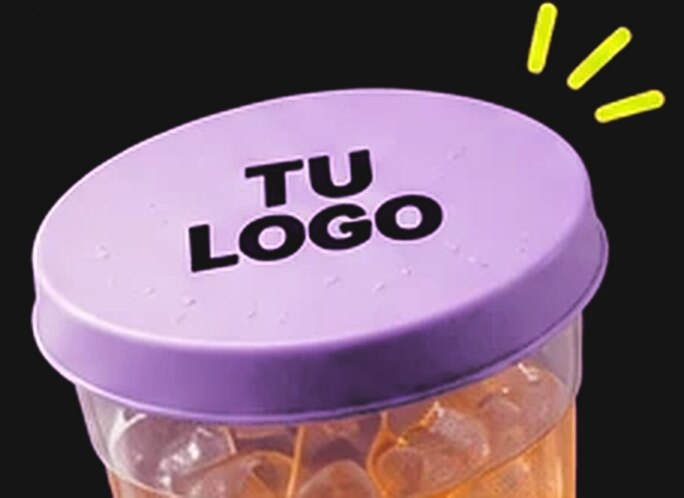
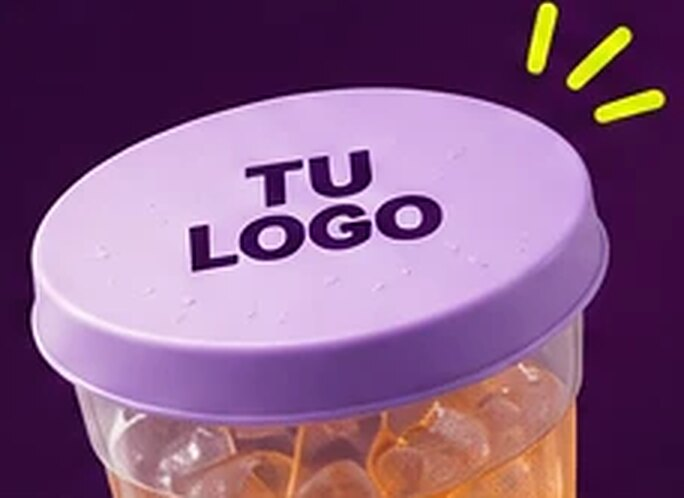
Volver al morado oscuro como color principal de la web; negro solo como acento
- Se recupera el morado en cabecera, portada, franja Custom, textos y fotos.
- Negro #141414 solo en el pie de página y en la selección de color/pack y
  miniatura activa de la ficha de producto.
- Negro y morado profundo siguen en la paleta oficial y en los tokens CSS.

Claude-Session: https://claude.ai/code/session_01AGLgpCqdxRS2ErA33SG59r

diff --git a/web/src/styles/global.css b/web/src/styles/global.css
@@ -5,23 +5,23 @@
 
 :root {
   --color-purple: #1A0B3D;
+  /* Paleta ampliada: el negro se usa solo como acento puntual */
   --color-black: #141414;
-  --color-ink: #141414; /* color oscuro principal de la web */
   --color-deep-purple: #3A1256;
-  --color-night: #141414;
+  --color-night: #1D0830;
   --hero-grad: radial-gradient(120% 140% at 80% 30%, #3B0C48 0%, #2A0838 45%, #190627 100%);
   --color-lime: #D9FF00;
   --color-pink: #FF2EA6;
   --color-lavender: #B6A4FF;
   --color-cream: #F5F4EE;
-  --color-text: var(--color-ink);
+  --color-text: #1A0B3D;
   --color-surface: #F5F4EE;
 
   /* derivados */
   --color-paper: #FBFAF6;
   --color-sand: #EAE8DF;
-  --color-line: rgba(20, 20, 20, 0.14);
-  --color-muted: rgba(20, 20, 20, 0.68);
+  --color-line: rgba(26, 11, 61, 0.14);
+  --color-muted: rgba(26, 11, 61, 0.68);
   --color-on-dark-muted: rgba(245, 244, 238, 0.72);
   --color-error: #B3124F;
 
@@ -74,7 +74,7 @@ h1, h2, h3, h4 { line-height: 1.05; font-weight: 800; letter-spacing: -0.03em; t
 ul[role='list'], ol[role='list'] { list-style: none; padding: 0; }
 
 :focus-visible {
-  outline: 3px solid var(--color-ink);
+  outline: 3px solid var(--color-purple);
   outline-offset: 3px;
   box-shadow: 0 0 0 6px var(--color-lime);
   border-radius: 4px;
@@ -91,7 +91,7 @@ ul[role='list'], ol[role='list'] { list-style: none; padding: 0; }
 }
 .skip-link {
   position: absolute; left: 1rem; top: -100px; z-index: 100;
-  background: var(--color-lime); color: var(--color-ink); padding: 0.75rem 1rem;
+  background: var(--color-lime); color: var(--color-purple); padding: 0.75rem 1rem;
   border-radius: var(--radius-s); font-weight: 600; text-decoration: none;
 }
 .skip-link:focus { top: 1rem; }
@@ -103,7 +103,7 @@ ul[role='list'], ol[role='list'] { list-style: none; padding: 0; }
 .rule { border: 0; border-top: 1px solid var(--color-line); }
 
 .dark {
-  background: var(--color-ink);
+  background: var(--color-purple);
   color: var(--color-cream);
 }
 .paper { background: var(--color-paper); }
@@ -115,7 +115,7 @@ ul[role='list'], ol[role='list'] { list-style: none; padding: 0; }
 }
 .eyebrow::before {
   content: ''; width: 0.55rem; height: 0.55rem; border-radius: 50%; background: var(--color-lime);
-  box-shadow: 0 0 0 1.5px var(--color-ink);
+  box-shadow: 0 0 0 1.5px var(--color-purple);
 }
 .dark .eyebrow::before { box-shadow: none; }
 .h-hero { font-size: var(--step-hero); letter-spacing: -0.045em; line-height: 0.95; }
@@ -147,14 +147,14 @@ ul[role='list'], ol[role='list'] { list-style: none; padding: 0; }
 .btn svg { width: 1.1em; height: 1.1em; transition: transform 0.2s var(--ease); }
 .btn:hover svg.arrow { transform: translateX(3px); }
 .btn:active { transform: translateY(1px); }
-.btn-primary { background: var(--color-lime); color: var(--color-ink); border-color: var(--color-lime); }
+.btn-primary { background: var(--color-lime); color: var(--color-purple); border-color: var(--color-lime); }
 .btn-primary:hover { background: #E6FF4D; border-color: #E6FF4D; }
 .dark .btn-primary { border-color: var(--color-lime); }
-.btn-secondary { background: transparent; color: var(--color-ink); border-color: var(--color-ink); }
-.btn-secondary:hover { background: var(--color-ink); color: var(--color-cream); }
+.btn-secondary { background: transparent; color: var(--color-purple); border-color: var(--color-purple); }
+.btn-secondary:hover { background: var(--color-purple); color: var(--color-cream); }
 .dark .btn-secondary { color: var(--color-cream); border-color: rgba(245, 244, 238, 0.7); }
-.dark .btn-secondary:hover { background: var(--color-cream); color: var(--color-ink); border-color: var(--color-cream); }
-.btn-dark { background: var(--color-ink); color: var(--color-cream); }
+.dark .btn-secondary:hover { background: var(--color-cream); color: var(--color-purple); border-color: var(--color-cream); }
+.btn-dark { background: var(--color-purple); color: var(--color-cream); }
 .btn-dark:hover { background: #2B1A5C; }
 .btn[disabled], .btn[aria-disabled='true'] { opacity: 0.45; cursor: not-allowed; transform: none; }
 .btn-block { width: 100%; }
@@ -171,8 +171,8 @@ ul[role='list'], ol[role='list'] { list-style: none; padding: 0; }
   display: inline-flex; align-items: center; gap: 0.35rem;
   font-size: 0.75rem; font-weight: 600; letter-spacing: 0.02em; line-height: 1;
   padding: 0.3rem 0.5rem; border-radius: 6px;
-  background: rgba(20, 20, 20, 0.07); color: var(--color-ink);
-  border: 1px dashed rgba(20, 20, 20, 0.35); vertical-align: middle; white-space: nowrap;
+  background: rgba(26, 11, 61, 0.07); color: var(--color-purple);
+  border: 1px dashed rgba(26, 11, 61, 0.35); vertical-align: middle; white-space: nowrap;
 }
 .dark .pending { background: rgba(245, 244, 238, 0.08); color: var(--color-cream); border-color: rgba(245, 244, 238, 0.4); }
 
@@ -182,11 +182,11 @@ ul[role='list'], ol[role='list'] { list-style: none; padding: 0; }
 .field .opt { font-weight: 400; color: var(--color-muted); }
 .input {
   width: 100%; min-height: 3.25rem; padding: 0.8rem 1rem;
-  background: var(--color-paper); border: 1.5px solid rgba(20, 20, 20, 0.28); border-radius: var(--radius-s);
+  background: var(--color-paper); border: 1.5px solid rgba(26, 11, 61, 0.28); border-radius: var(--radius-s);
   transition: border-color 0.15s;
 }
-.input:hover { border-color: rgba(20, 20, 20, 0.55); }
-.input:focus-visible { border-color: var(--color-ink); }
+.input:hover { border-color: rgba(26, 11, 61, 0.55); }
+.input:focus-visible { border-color: var(--color-purple); }
 textarea.input { min-height: 9rem; resize: vertical; }
 .input[aria-invalid='true'] { border-color: var(--color-error); }
 .field-error { color: var(--color-error); font-size: var(--step--1); font-weight: 500; }
@@ -205,7 +205,7 @@ textarea.input { min-height: 9rem; resize: vertical; }
   flex: none; width: 2rem; height: 2rem; border-radius: 50%; border: 1.5px solid currentColor;
   display: grid; place-items: center; transition: transform 0.25s var(--ease), background-color 0.2s;
 }
-.faq details[open] summary .plus { transform: rotate(45deg); background: var(--color-lime); border-color: var(--color-ink); color: var(--color-ink); }
+.faq details[open] summary .plus { transform: rotate(45deg); background: var(--color-lime); border-color: var(--color-purple); color: var(--color-purple); }
 .faq .answer { padding: 0 3.5rem 1.6rem 0; max-width: 70ch; color: var(--color-muted); }
 .dark .faq, .dark .faq details { border-color: rgba(245, 244, 238, 0.18); }
 
@@ -213,7 +213,7 @@ textarea.input { min-height: 9rem; resize: vertical; }
 .breadcrumb ol { display: flex; flex-wrap: wrap; gap: 0.5rem; list-style: none; padding: 0; font-size: var(--step--1); }
 .breadcrumb li + li::before { content: '/'; margin-right: 0.5rem; color: var(--color-muted); }
 .breadcrumb a { color: var(--color-muted); text-decoration: none; }
-.breadcrumb a:hover { color: var(--color-ink); text-decoration: underline; }
+.breadcrumb a:hover { color: var(--color-purple); text-decoration: underline; }
 
 /* ---------- reveal ---------- */
 @media (prefers-reduced-motion: no-preference) {
@@ -227,4 +227,4 @@ textarea.input { min-height: 9rem; resize: vertical; }
 .field > .qty { justify-self: start; }
 
 .btn-ghost { background: transparent; color: var(--color-cream); border-color: rgba(245, 244, 238, .85); }
-.btn-ghost:hover { background: var(--color-cream); color: var(--color-ink); }
+.btn-ghost:hover { background: var(--color-cream); color: var(--color-purple); }
